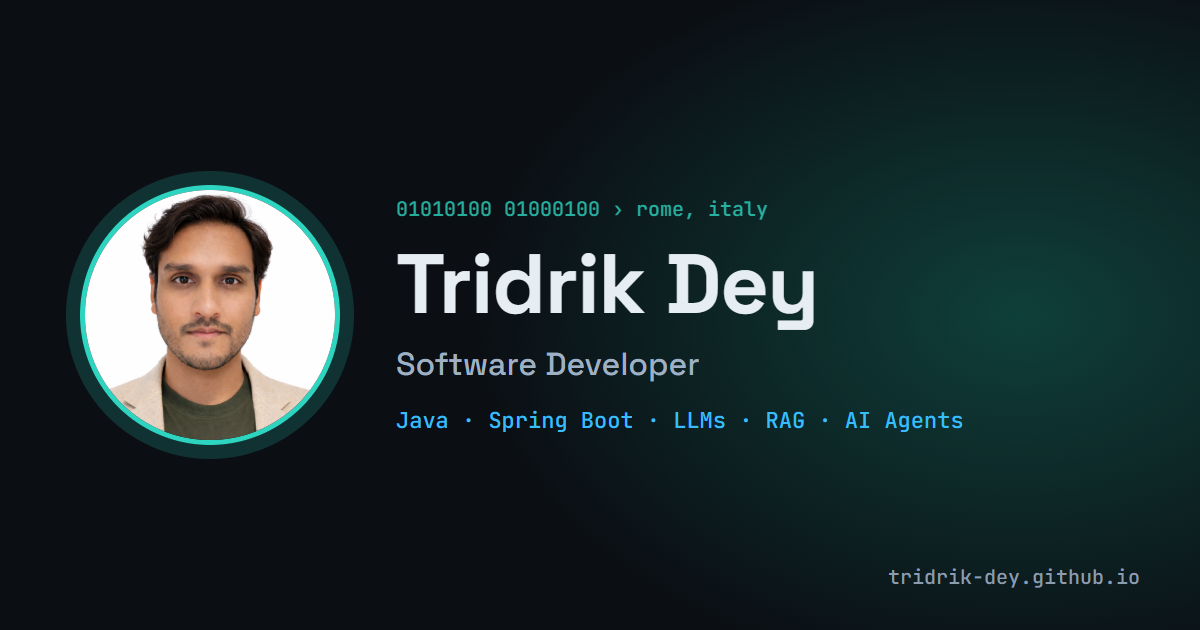
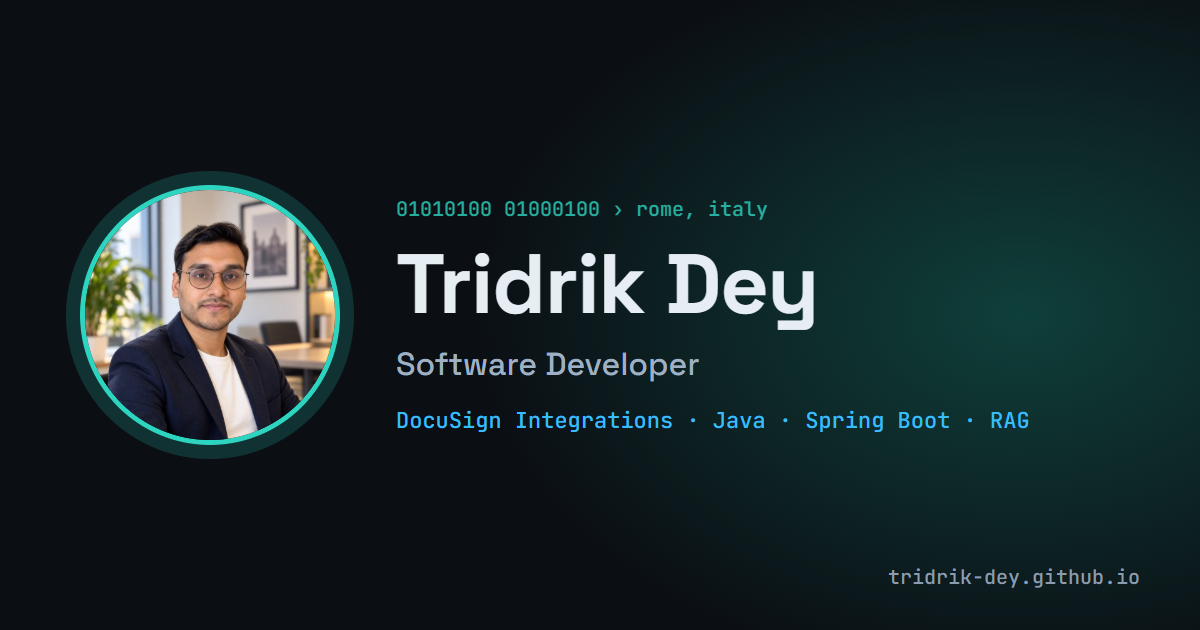
Use the new profile photo; update link preview to the integration focus

Changed region(s): [[0.0617, 0.3016, 0.2775, 0.7238], [0.3392, 0.6333, 0.8633, 0.6937]]

diff --git a/it/index.html b/it/index.html
@@ -31,7 +31,7 @@
 <link href="https://fonts.googleapis.com/css2?family=Inter:wght@400;500;600&family=JetBrains+Mono:wght@400;600&family=Space+Grotesk:wght@500;700&display=swap" rel="stylesheet">
 <link rel="stylesheet" href="../assets/css/style.css">
 <script>document.documentElement.classList.replace('no-js','js');try{var s=localStorage.getItem('theme');if(s)document.documentElement.dataset.theme=s}catch(e){}</script>
-<script type="application/ld+json">{"@context":"https://schema.org","@type":"ProfilePage","dateModified":"2026-10-31","inLanguage":"it","mainEntity":{"@type":"Person","@id":"https://tridrik-dey.github.io/#person","name":"Tridrik Dey","jobTitle":"Sviluppatore Software","description":"Sviluppatore software in BARS a Roma, partner DocuSign: integro DocuSign con SAP, SharePoint, Microsoft Entra ID e sistemi HR usando Java/Spring Boot, Node.js e TypeScript. Sviluppo anche progetti RAG e agenti AI.","email":"mailto:tridrik21@gmail.com","image":"https://tridrik-dey.github.io/assets/avatar.png","url":"https://tridrik-dey.github.io/","address":{"@type":"PostalAddress","addressLocality":"Rome","addressCountry":"IT"},"worksFor":{"@type":"Organization","name":"BARS"},"alumniOf":[{"@type":"CollegeOrUniversity","name":"Università degli Studi di Padova"},{"@type":"CollegeOrUniversity","name":"Maulana Abul Kalam Azad University of Technology, West Bengal (formerly WBUT)"}],"hasCredential":[{"@type":"EducationalOccupationalCredential","name":"Docusign Extension Developer Pro","recognizedBy":{"@type":"Organization","name":"Docusign"}},{"@type":"EducationalOccupationalCredential","name":"Building RAG Agents with LLMs","recognizedBy":{"@type":"Organization","name":"NVIDIA"}},{"@type":"EducationalOccupationalCredential","name":"Software Engineering Job Simulation","recognizedBy":{"@type":"Organization","name":"J.P. Morgan"}},{"@type":"EducationalOccupationalCredential","name":"Torq Partner PS Delivery (TPS 301)","recognizedBy":{"@type":"Organization","name":"Torq"}}],"knowsAbout":["DocuSign eSignature API","DocuSign Maestro","Data IO Extension Apps","SAP (SOAP)","Microsoft Graph","SharePoint","Entra ID","OAuth 2.0","Zucchetti HR","Java 17","Spring Boot","Spring MVC","Kafka","REST APIs","JPA / JDBC","MySQL","PostgreSQL","XML / JSON contracts","React","Angular","SAP UI5","Next.js","TypeScript","JavaScript","jQuery","HTML5 / CSS","Tailwind CSS","LLMs","RAG","AI agents","LangChain","OpenAI API","Embeddings","FAISS","Whisper","Transformers","Streamlit","VR / XR","Unity","C#","Meta Quest 3","Haptics (WEART TouchDIVER)","Selenium","Testing / QA","Puppeteer","XState","Firebase","FFmpeg","Git"],"knowsLanguage":["en","it"],"sameAs":["https://www.linkedin.com/in/tridrik-dey","https://github.com/Tridrik-Dey"]}}</script>
+<script type="application/ld+json">{"@context":"https://schema.org","@type":"ProfilePage","dateModified":"2026-10-31","inLanguage":"it","mainEntity":{"@type":"Person","@id":"https://tridrik-dey.github.io/#person","name":"Tridrik Dey","jobTitle":"Sviluppatore Software","description":"Sviluppatore software in BARS a Roma, partner DocuSign: integro DocuSign con SAP, SharePoint, Microsoft Entra ID e sistemi HR usando Java/Spring Boot, Node.js e TypeScript. Sviluppo anche progetti RAG e agenti AI.","email":"mailto:tridrik21@gmail.com","image":"https://tridrik-dey.github.io/assets/photo.jpg","url":"https://tridrik-dey.github.io/","address":{"@type":"PostalAddress","addressLocality":"Rome","addressCountry":"IT"},"worksFor":{"@type":"Organization","name":"BARS"},"alumniOf":[{"@type":"CollegeOrUniversity","name":"Università degli Studi di Padova"},{"@type":"CollegeOrUniversity","name":"Maulana Abul Kalam Azad University of Technology, West Bengal (formerly WBUT)"}],"hasCredential":[{"@type":"EducationalOccupationalCredential","name":"Docusign Extension Developer Pro","recognizedBy":{"@type":"Organization","name":"Docusign"}},{"@type":"EducationalOccupationalCredential","name":"Building RAG Agents with LLMs","recognizedBy":{"@type":"Organization","name":"NVIDIA"}},{"@type":"EducationalOccupationalCredential","name":"Software Engineering Job Simulation","recognizedBy":{"@type":"Organization","name":"J.P. Morgan"}},{"@type":"EducationalOccupationalCredential","name":"Torq Partner PS Delivery (TPS 301)","recognizedBy":{"@type":"Organization","name":"Torq"}}],"knowsAbout":["DocuSign eSignature API","DocuSign Maestro","Data IO Extension Apps","SAP (SOAP)","Microsoft Graph","SharePoint","Entra ID","OAuth 2.0","Zucchetti HR","Java 17","Spring Boot","Spring MVC","Kafka","REST APIs","JPA / JDBC","MySQL","PostgreSQL","XML / JSON contracts","React","Angular","SAP UI5","Next.js","TypeScript","JavaScript","jQuery","HTML5 / CSS","Tailwind CSS","LLMs","RAG","AI agents","LangChain","OpenAI API","Embeddings","FAISS","Whisper","Transformers","Streamlit","VR / XR","Unity","C#","Meta Quest 3","Haptics (WEART TouchDIVER)","Selenium","Testing / QA","Puppeteer","XState","Firebase","FFmpeg","Git"],"knowsLanguage":["en","it"],"sameAs":["https://www.linkedin.com/in/tridrik-dey","https://github.com/Tridrik-Dey"]}}</script>
 <script type="application/ld+json">{"@context":"https://schema.org","@type":"FAQPage","inLanguage":"it","mainEntity":[{"@type":"Question","name":"Hai il diritto di lavorare in Italia?","acceptedAnswer":{"@type":"Answer","text":"Sì. Vivo e lavoro a Roma, attualmente come sviluppatore software in BARS."}},{"@type":"Question","name":"Qual è il tuo periodo di preavviso?","acceptedAnswer":{"@type":"Answer","text":"È flessibile: concordiamo volentieri una data di inizio adatta a entrambi."}},{"@type":"Question","name":"Da remoto, ibrido o in sede?","acceptedAnswer":{"@type":"Answer","text":"Tutti e tre: in sede o ibrido a Roma, oppure da remoto."}},{"@type":"Question","name":"Com’è il tuo italiano?","acceptedAnswer":{"@type":"Answer","text":"A2, in preparazione per il B1: ho persino creato un’app per esercitarmi con i verbi. Lavoro senza difficoltà in inglese."}},{"@type":"Question","name":"Posso vedere il codice delle tue integrazioni DocuSign?","acceptedAnswer":{"@type":"Answer","text":"Il codice dei clienti è privato, per questo i casi qui sopra descrivono problema, ruolo, architettura e scelte chiave. Il proof of concept SharePoint → DocuSign ha una versione di test pubblica, e in un colloquio illustro volentieri qualsiasi progetto."}},{"@type":"Question","name":"Che tipo di ruolo cerchi?","acceptedAnswer":{"@type":"Answer","text":"Ruoli da sviluppatore software dove i backend Java/Spring Boot incontrano le integrazioni (DocuSign, SAP, Microsoft 365) e, idealmente, l’AI e la RAG."}}]}</script>
 </head>
 <body>
@@ -48,7 +48,7 @@
 <section id="hero" class="hero">
   <canvas class="hero-canvas" aria-hidden="true"></canvas>
   <div class="hero-inner">
-    <img class="hero-photo" src="../assets/avatar.png" alt="Tridrik Dey" width="160" height="160">
+    <img class="hero-photo" src="../assets/photo.jpg" alt="Tridrik Dey" width="160" height="160">
     <p class="eyebrow">Ciao, sono</p>
     <h1 class="hero-name"><span class="decode" data-decode>Tridrik Dey</span></h1>
     <p class="hero-title"><span class="decode" data-decode data-delay="500">Sviluppatore Software</span></p>

diff --git a/index.html b/index.html
@@ -31,7 +31,7 @@
 <link href="https://fonts.googleapis.com/css2?family=Inter:wght@400;500;600&family=JetBrains+Mono:wght@400;600&family=Space+Grotesk:wght@500;700&display=swap" rel="stylesheet">
 <link rel="stylesheet" href="assets/css/style.css">
 <script>document.documentElement.classList.replace('no-js','js');try{var s=localStorage.getItem('theme');if(s)document.documentElement.dataset.theme=s}catch(e){}</script>
-<script type="application/ld+json">{"@context":"https://schema.org","@type":"ProfilePage","dateModified":"2026-10-31","inLanguage":"en","mainEntity":{"@type":"Person","@id":"https://tridrik-dey.github.io/#person","name":"Tridrik Dey","jobTitle":"Software Developer","description":"Software Developer at BARS in Rome, a DocuSign partner, integrating DocuSign with SAP, SharePoint, Microsoft Entra ID and HR systems using Java/Spring Boot, Node.js and TypeScript. Also builds RAG and AI-agent projects.","email":"mailto:tridrik21@gmail.com","image":"https://tridrik-dey.github.io/assets/avatar.png","url":"https://tridrik-dey.github.io/","address":{"@type":"PostalAddress","addressLocality":"Rome","addressCountry":"IT"},"worksFor":{"@type":"Organization","name":"BARS"},"alumniOf":[{"@type":"CollegeOrUniversity","name":"Università degli Studi di Padova"},{"@type":"CollegeOrUniversity","name":"Maulana Abul Kalam Azad University of Technology, West Bengal (formerly WBUT)"}],"hasCredential":[{"@type":"EducationalOccupationalCredential","name":"Docusign Extension Developer Pro","recognizedBy":{"@type":"Organization","name":"Docusign"}},{"@type":"EducationalOccupationalCredential","name":"Building RAG Agents with LLMs","recognizedBy":{"@type":"Organization","name":"NVIDIA"}},{"@type":"EducationalOccupationalCredential","name":"Software Engineering Job Simulation","recognizedBy":{"@type":"Organization","name":"J.P. Morgan"}},{"@type":"EducationalOccupationalCredential","name":"Torq Partner PS Delivery (TPS 301)","recognizedBy":{"@type":"Organization","name":"Torq"}}],"knowsAbout":["DocuSign eSignature API","DocuSign Maestro","Data IO Extension Apps","SAP (SOAP)","Microsoft Graph","SharePoint","Entra ID","OAuth 2.0","Zucchetti HR","Java 17","Spring Boot","Spring MVC","Kafka","REST APIs","JPA / JDBC","MySQL","PostgreSQL","XML / JSON contracts","React","Angular","SAP UI5","Next.js","TypeScript","JavaScript","jQuery","HTML5 / CSS","Tailwind CSS","LLMs","RAG","AI agents","LangChain","OpenAI API","Embeddings","FAISS","Whisper","Transformers","Streamlit","VR / XR","Unity","C#","Meta Quest 3","Haptics (WEART TouchDIVER)","Selenium","Testing / QA","Puppeteer","XState","Firebase","FFmpeg","Git"],"knowsLanguage":["en","it"],"sameAs":["https://www.linkedin.com/in/tridrik-dey","https://github.com/Tridrik-Dey"]}}</script>
+<script type="application/ld+json">{"@context":"https://schema.org","@type":"ProfilePage","dateModified":"2026-10-31","inLanguage":"en","mainEntity":{"@type":"Person","@id":"https://tridrik-dey.github.io/#person","name":"Tridrik Dey","jobTitle":"Software Developer","description":"Software Developer at BARS in Rome, a DocuSign partner, integrating DocuSign with SAP, SharePoint, Microsoft Entra ID and HR systems using Java/Spring Boot, Node.js and TypeScript. Also builds RAG and AI-agent projects.","email":"mailto:tridrik21@gmail.com","image":"https://tridrik-dey.github.io/assets/photo.jpg","url":"https://tridrik-dey.github.io/","address":{"@type":"PostalAddress","addressLocality":"Rome","addressCountry":"IT"},"worksFor":{"@type":"Organization","name":"BARS"},"alumniOf":[{"@type":"CollegeOrUniversity","name":"Università degli Studi di Padova"},{"@type":"CollegeOrUniversity","name":"Maulana Abul Kalam Azad University of Technology, West Bengal (formerly WBUT)"}],"hasCredential":[{"@type":"EducationalOccupationalCredential","name":"Docusign Extension Developer Pro","recognizedBy":{"@type":"Organization","name":"Docusign"}},{"@type":"EducationalOccupationalCredential","name":"Building RAG Agents with LLMs","recognizedBy":{"@type":"Organization","name":"NVIDIA"}},{"@type":"EducationalOccupationalCredential","name":"Software Engineering Job Simulation","recognizedBy":{"@type":"Organization","name":"J.P. Morgan"}},{"@type":"EducationalOccupationalCredential","name":"Torq Partner PS Delivery (TPS 301)","recognizedBy":{"@type":"Organization","name":"Torq"}}],"knowsAbout":["DocuSign eSignature API","DocuSign Maestro","Data IO Extension Apps","SAP (SOAP)","Microsoft Graph","SharePoint","Entra ID","OAuth 2.0","Zucchetti HR","Java 17","Spring Boot","Spring MVC","Kafka","REST APIs","JPA / JDBC","MySQL","PostgreSQL","XML / JSON contracts","React","Angular","SAP UI5","Next.js","TypeScript","JavaScript","jQuery","HTML5 / CSS","Tailwind CSS","LLMs","RAG","AI agents","LangChain","OpenAI API","Embeddings","FAISS","Whisper","Transformers","Streamlit","VR / XR","Unity","C#","Meta Quest 3","Haptics (WEART TouchDIVER)","Selenium","Testing / QA","Puppeteer","XState","Firebase","FFmpeg","Git"],"knowsLanguage":["en","it"],"sameAs":["https://www.linkedin.com/in/tridrik-dey","https://github.com/Tridrik-Dey"]}}</script>
 <script type="application/ld+json">{"@context":"https://schema.org","@type":"FAQPage","inLanguage":"en","mainEntity":[{"@type":"Question","name":"Do you have the right to work in Italy?","acceptedAnswer":{"@type":"Answer","text":"Yes. I live and work in Rome, currently as a Software Developer at BARS."}},{"@type":"Question","name":"What is your notice period?","acceptedAnswer":{"@type":"Answer","text":"It’s flexible — I’m happy to agree a start date that works for both sides."}},{"@type":"Question","name":"Remote, hybrid or on-site?","acceptedAnswer":{"@type":"Answer","text":"All three: on-site or hybrid in Rome, or remote."}},{"@type":"Question","name":"How good is your Italian?","acceptedAnswer":{"@type":"Answer","text":"A2 and preparing for B1 — I even built my own app to practise verbs. I work comfortably in English."}},{"@type":"Question","name":"Can I see the code of your DocuSign integrations?","acceptedAnswer":{"@type":"Answer","text":"The client code is private, so the case studies above describe the problem, my role, the architecture and the key decisions. The SharePoint → DocuSign proof of concept has a public test version, and I’m glad to walk through any design in an interview."}},{"@type":"Question","name":"What kind of role are you looking for?","acceptedAnswer":{"@type":"Answer","text":"Software developer roles where Java/Spring Boot backends meet integrations — DocuSign, SAP, Microsoft 365 — and, ideally, AI and RAG."}}]}</script>
 </head>
 <body>
@@ -48,7 +48,7 @@
 <section id="hero" class="hero">
   <canvas class="hero-canvas" aria-hidden="true"></canvas>
   <div class="hero-inner">
-    <img class="hero-photo" src="assets/avatar.png" alt="Tridrik Dey" width="160" height="160">
+    <img class="hero-photo" src="assets/photo.jpg" alt="Tridrik Dey" width="160" height="160">
     <p class="eyebrow">Hi, I'm</p>
     <h1 class="hero-name"><span class="decode" data-decode>Tridrik Dey</span></h1>
     <p class="hero-title"><span class="decode" data-decode data-delay="500">Software Developer</span></p>
